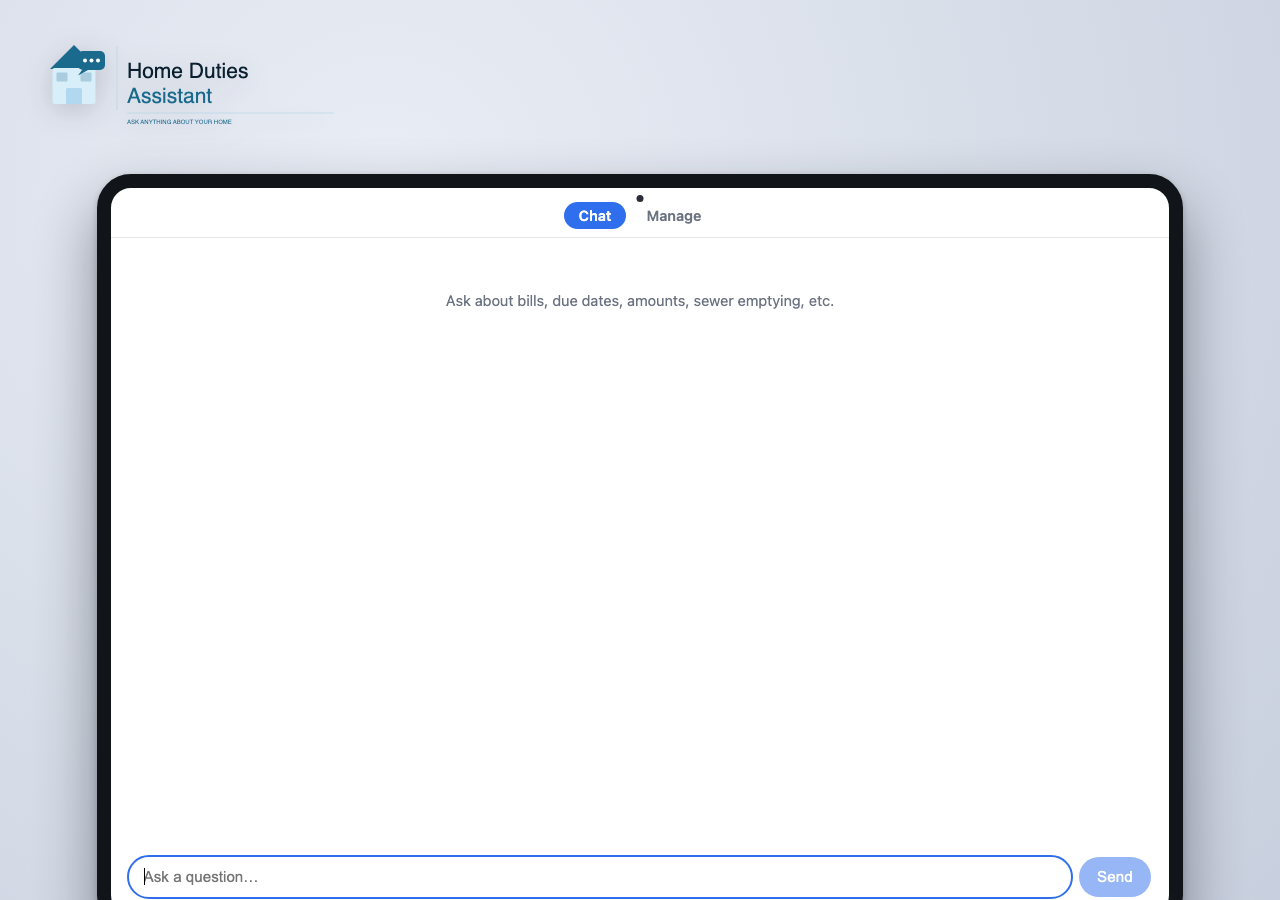
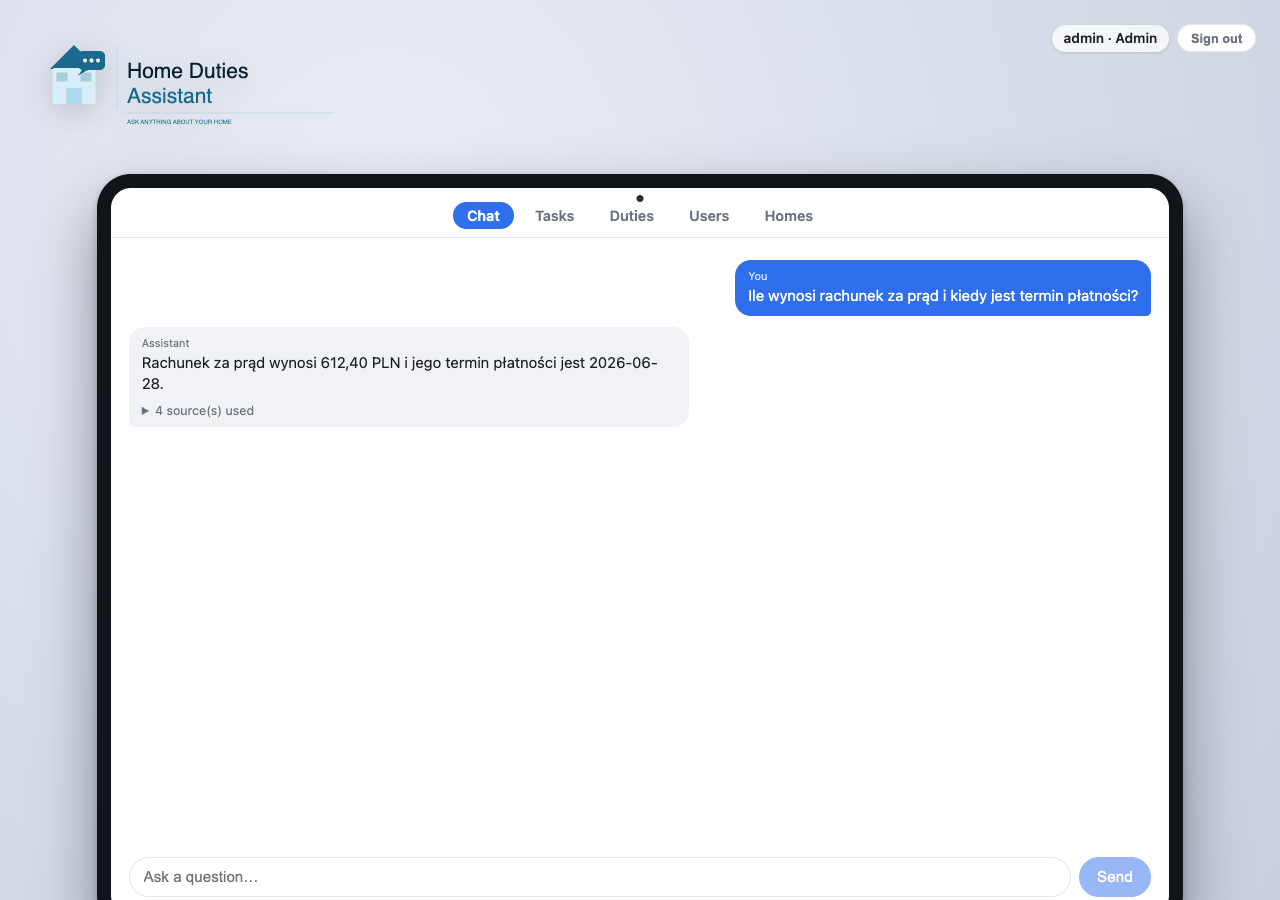
Update README

diff --git a/HomeDutiesAssistant.Core/Templates/EmailLayout.html b/HomeDutiesAssistant.Core/Templates/EmailLayout.html
@@ -1,0 +1,127 @@
+<!DOCTYPE html PUBLIC "-//W3C//DTD XHTML 1.0 Transitional//EN" "http://www.w3.org/TR/xhtml1/DTD/xhtml1-transitional.dtd">
+<html xmlns="http://www.w3.org/1999/xhtml">
+<head>
+  <meta http-equiv="Content-Type" content="text/html; charset=utf-8" />
+  <meta name="viewport" content="width=device-width, initial-scale=1" />
+  <title>{{Title}}</title>
+  <!--[if mso]>
+  <style type="text/css">body,table,td,a{font-family:Arial,Helvetica,sans-serif !important;}</style>
+  <![endif]-->
+  <style type="text/css">
+    /* Progressive enhancement only - every rule that matters is also inlined below. */
+    @media only screen and (max-width: 480px) {
+      .hda-pad { padding-left: 20px !important; padding-right: 20px !important; }
+      .hda-title { font-size: 21px !important; }
+      .hda-btn a { display: block !important; }
+    }
+  </style>
+</head>
+<body style="margin:0; padding:0; background-color:#eef3f6; -webkit-text-size-adjust:100%; -ms-text-size-adjust:100%;">
+
+  <!-- Inbox preview line: shown next to the subject, never in the body. -->
+  <div style="display:none; max-height:0; overflow:hidden; mso-hide:all; font-size:0; line-height:0; color:#eef3f6;">{{Preheader}}&#847;&zwnj;&nbsp;&#847;&zwnj;&nbsp;&#847;&zwnj;&nbsp;&#847;&zwnj;&nbsp;&#847;&zwnj;&nbsp;&#847;&zwnj;&nbsp;&#847;&zwnj;&nbsp;&#847;&zwnj;&nbsp;</div>
+
+  <table role="presentation" cellpadding="0" cellspacing="0" border="0" width="100%" style="background-color:#eef3f6;">
+    <tr>
+      <td align="center" style="padding:28px 12px;">
+
+        <table role="presentation" cellpadding="0" cellspacing="0" border="0" width="600" style="width:600px; max-width:600px; background-color:#ffffff; border:1px solid #dce6ec; border-radius:10px;">
+
+          <!-- ── Header: the logo lockup ───────────────────────────────── -->
+          <tr>
+            <td class="hda-pad" style="padding:28px 32px 22px 32px; border-bottom:1px solid #e6eef3;">
+              <table role="presentation" cellpadding="0" cellspacing="0" border="0">
+                <tr>
+                  <!--[if !mso]><!-- -->
+                  <!-- The mark, drawn in CSS. Outlook's Word engine mishandles
+                       zero-size border triangles, so it gets the wordmark only. -->
+                  <td valign="middle" style="padding-right:14px;">
+                    <table role="presentation" cellpadding="0" cellspacing="0" border="0">
+                      <tr>
+                        <td valign="bottom" style="font-size:0; line-height:0;">
+                          <div style="width:0; height:0; border-left:28px solid transparent; border-right:28px solid transparent; border-bottom:24px solid #1a6a8e; font-size:0; line-height:0;"></div>
+                          <div style="width:48px; height:32px; margin:0 4px; background-color:#d8eef8; border-radius:0 0 3px 3px; font-size:0; line-height:0;">
+                            <div style="height:14px; font-size:0; line-height:0;">&nbsp;</div>
+                            <div style="width:16px; height:18px; margin:0 auto; background-color:#b0d8ee; border-radius:2px 2px 0 0; font-size:0; line-height:0;">&nbsp;</div>
+                          </div>
+                        </td>
+                        <td valign="top" style="padding-left:8px;">
+                          <div style="background-color:#1a6a8e; border-radius:8px; padding:7px 9px; font-size:0; line-height:0;">
+                            <span style="display:inline-block; width:6px; height:6px; border-radius:50%; background-color:#ffffff;"></span>
+                            <span style="display:inline-block; width:6px; height:6px; border-radius:50%; background-color:#ffffff; margin-left:4px;"></span>
+                            <span style="display:inline-block; width:6px; height:6px; border-radius:50%; background-color:#ffffff; margin-left:4px;"></span>
+                          </div>
+                        </td>
+                      </tr>
+                    </table>
+                  </td>
+                  <td width="1" style="width:1px; background-color:#a0cce0; font-size:0; line-height:0;">&nbsp;</td>
+                  <!--<![endif]-->
+                  <td valign="middle" style="padding-left:16px;">
+                    <div style="font-family:-apple-system,'Segoe UI',Roboto,Helvetica,Arial,sans-serif; font-size:22px; font-weight:500; line-height:1.15; color:#0a2030;">Home Duties</div>
+                    <div style="font-family:-apple-system,'Segoe UI',Roboto,Helvetica,Arial,sans-serif; font-size:22px; font-weight:500; line-height:1.15; color:#1a6a8e;">Assistant</div>
+                    <div style="font-family:-apple-system,'Segoe UI',Roboto,Helvetica,Arial,sans-serif; font-size:10px; font-weight:400; line-height:1.4; letter-spacing:0.12em; text-transform:uppercase; color:#1a6a8e; padding-top:7px;">Ask anything about your home</div>
+                  </td>
+                </tr>
+              </table>
+            </td>
+          </tr>
+
+          <!-- ── Body ──────────────────────────────────────────────────── -->
+          <tr>
+            <td class="hda-pad" style="padding:30px 32px 0 32px;">
+              <h1 class="hda-title" style="margin:0 0 14px 0; font-family:-apple-system,'Segoe UI',Roboto,Helvetica,Arial,sans-serif; font-size:24px; font-weight:600; line-height:1.25; color:#0a2030;">{{Title}}</h1>
+              <p style="margin:0; font-family:-apple-system,'Segoe UI',Roboto,Helvetica,Arial,sans-serif; font-size:15px; line-height:1.6; color:#33454f;">{{Intro}}</p>
+            </td>
+          </tr>
+
+          <!--{{#Button}}-->
+          <tr>
+            <td class="hda-pad" align="left" style="padding:26px 32px 0 32px;">
+              <table role="presentation" cellpadding="0" cellspacing="0" border="0" class="hda-btn">
+                <tr>
+                  <td bgcolor="#1a6a8e" style="border-radius:6px;">
+                    <a href="{{ButtonUrl}}" style="display:inline-block; padding:13px 28px; font-family:-apple-system,'Segoe UI',Roboto,Helvetica,Arial,sans-serif; font-size:15px; font-weight:600; line-height:1; color:#ffffff; text-decoration:none; border-radius:6px;">{{ButtonText}}</a>
+                  </td>
+                </tr>
+              </table>
+            </td>
+          </tr>
+          <tr>
+            <td class="hda-pad" style="padding:18px 32px 0 32px;">
+              <p style="margin:0; font-family:-apple-system,'Segoe UI',Roboto,Helvetica,Arial,sans-serif; font-size:12px; line-height:1.55; color:#5b7180;">
+                If the button doesn't work, copy this link into your browser:<br />
+                <a href="{{ButtonUrl}}" style="color:#1a6a8e; text-decoration:underline; word-break:break-all;">{{ButtonUrl}}</a>
+              </p>
+            </td>
+          </tr>
+          <!--{{/Button}}-->
+
+          <!--{{#Outro}}-->
+          <tr>
+            <td class="hda-pad" style="padding:22px 32px 0 32px;">
+              <p style="margin:0; font-family:-apple-system,'Segoe UI',Roboto,Helvetica,Arial,sans-serif; font-size:14px; line-height:1.6; color:#5b7180;">{{Outro}}</p>
+            </td>
+          </tr>
+          <!--{{/Outro}}-->
+
+          <tr><td style="height:30px; font-size:0; line-height:0;">&nbsp;</td></tr>
+
+          <!-- ── Footer ────────────────────────────────────────────────── -->
+          <tr>
+            <td class="hda-pad" style="padding:18px 32px; background-color:#f6fafc; border-top:1px solid #e6eef3; border-radius:0 0 10px 10px;">
+              <p style="margin:0; font-family:-apple-system,'Segoe UI',Roboto,Helvetica,Arial,sans-serif; font-size:12px; line-height:1.6; color:#7b8c98;">
+                Home Duties Assistant &middot; your household, answered.<br />
+                This is an automated message &mdash; replies aren't monitored.
+              </p>
+            </td>
+          </tr>
+
+        </table>
+
+      </td>
+    </tr>
+  </table>
+
+</body>
+</html>

diff --git a/HomeDutiesAssistant.Core/Templates/EmailTemplate.cs b/HomeDutiesAssistant.Core/Templates/EmailTemplate.cs
@@ -1,0 +1,126 @@
+using System.Net;
+using System.Text;
+
+namespace HomeDutiesAssistant.Templates;
+
+/// <summary>
+/// The content of one transactional email, independent of how it is marked up.
+/// Callers describe what they want to say; <see cref="EmailTemplate"/> decides how it looks.
+/// </summary>
+/// <param name="Title">Headline, also used as the document title.</param>
+/// <param name="Intro">The opening paragraph.</param>
+/// <param name="ButtonText">Call-to-action label. Omit (with <paramref name="ButtonUrl"/>) for an email with no action.</param>
+/// <param name="ButtonUrl">Where the call to action goes.</param>
+/// <param name="Outro">Optional closing note, set smaller and muted.</param>
+/// <param name="Preheader">Optional inbox preview line shown beside the subject. Falls back to <paramref name="Intro"/>.</param>
+public sealed record EmailContent(
+    string Title,
+    string Intro,
+    string? ButtonText = null,
+    string? ButtonUrl = null,
+    string? Outro = null,
+    string? Preheader = null);
+
+/// <summary>
+/// Renders <see cref="EmailContent"/> into the branded HTML layout and a plain-text
+/// equivalent. Both come from the same content, so the two parts of a
+/// multipart/alternative message never drift apart.
+/// </summary>
+public static class EmailTemplate
+{
+    private const string LayoutResource = "HomeDutiesAssistant.Templates.EmailLayout.html";
+
+    private static readonly Lazy<string> Layout = new(LoadLayout);
+
+    public static string RenderHtml(EmailContent content)
+    {
+        var hasButton = !string.IsNullOrWhiteSpace(content.ButtonText)
+                        && !string.IsNullOrWhiteSpace(content.ButtonUrl);
+        var hasOutro = !string.IsNullOrWhiteSpace(content.Outro);
+
+        var html = Layout.Value;
+        html = Section(html, "Button", hasButton);
+        html = Section(html, "Outro", hasOutro);
+
+        // Everything substituted here is HTML-encoded: the confirmation link carries
+        // a query string whose '&' would otherwise break the href.
+        html = html.Replace("{{Preheader}}", Encode(content.Preheader ?? content.Intro));
+        html = html.Replace("{{Title}}", Encode(content.Title));
+        html = html.Replace("{{Intro}}", Encode(content.Intro));
+        if (hasButton)
+        {
+            html = html.Replace("{{ButtonText}}", Encode(content.ButtonText));
+            html = html.Replace("{{ButtonUrl}}", Encode(content.ButtonUrl));
+        }
+
+        if (hasOutro)
+        {
+            html = html.Replace("{{Outro}}", Encode(content.Outro));
+        }
+
+        return html;
+    }
+
+    /// <summary>The same message for clients that cannot render HTML.</summary>
+    public static string RenderText(EmailContent content)
+    {
+        var text = new StringBuilder();
+        text.AppendLine(content.Title);
+        text.AppendLine(new string('=', content.Title.Length));
+        text.AppendLine();
+        text.AppendLine(content.Intro);
+
+        if (!string.IsNullOrWhiteSpace(content.ButtonUrl))
+        {
+            text.AppendLine();
+            text.AppendLine(string.IsNullOrWhiteSpace(content.ButtonText)
+                ? content.ButtonUrl
+                : $"{content.ButtonText}: {content.ButtonUrl}");
+        }
+
+        if (!string.IsNullOrWhiteSpace(content.Outro))
+        {
+            text.AppendLine();
+            text.AppendLine(content.Outro);
+        }
+
+        text.AppendLine();
+        text.AppendLine("--");
+        text.AppendLine("Home Duties Assistant - your household, answered.");
+        text.AppendLine("This is an automated message - replies aren't monitored.");
+        return text.ToString();
+    }
+
+    /// <summary>
+    /// Keeps or drops one optional block of the layout, marked in the HTML with
+    /// <c>&lt;!--{{#Name}}--&gt;</c> … <c>&lt;!--{{/Name}}--&gt;</c>.
+    /// </summary>
+    private static string Section(string html, string name, bool keep)
+    {
+        var open = "<!--{{#" + name + "}}-->";
+        var close = "<!--{{/" + name + "}}-->";
+
+        var start = html.IndexOf(open, StringComparison.Ordinal);
+        var end = html.IndexOf(close, StringComparison.Ordinal);
+        if (start < 0 || end < start)
+        {
+            throw new InvalidOperationException($"The email layout has no '{name}' section.");
+        }
+
+        // Remove the later span first so the earlier index stays valid.
+        return keep
+            ? html.Remove(end, close.Length).Remove(start, open.Length)
+            : html.Remove(start, end + close.Length - start);
+    }
+
+    private static string Encode(string? value) => WebUtility.HtmlEncode(value ?? string.Empty);
+
+    private static string LoadLayout()
+    {
+        using var stream = typeof(EmailTemplate).Assembly.GetManifestResourceStream(LayoutResource)
+            ?? throw new InvalidOperationException(
+                $"Embedded resource '{LayoutResource}' was not found. Is Templates/EmailLayout.html still marked <EmbeddedResource>?");
+        using var reader = new StreamReader(stream, Encoding.UTF8);
+        return reader.ReadToEnd();
+    }
+}

diff --git a/README.md b/README.md
@@ -26,11 +26,16 @@ data/*.yaml ──▶ DataLoader ──▶ embed ──▶ PostgreSQL + pgvector
                                       │
                                       ▼
                           Ollama LLM ──▶ streamed answer
+
+bill.pdf ──▶ PdfPig (text layer) ──▶ Phi-4-mini (ONNX Runtime) ──▶ JSON ──▶ pre-filled Duty
+                                                                               │
+                                                  review & save on /duties ──▶ embed ──▶ pgvector
 ```
 
 1. **Ingest** — every `*.yaml` under `data/` becomes a `Duty`. Each duty is rendered to one canonical sentence that is *both* embedded and later shown to the model, then upserted into Postgres.
 2. **Retrieve** — your question is embedded and matched against stored facts using **hybrid search** (lexical + vector, fused with Reciprocal Rank Fusion).
 3. **Answer** — the top-K facts are pinned into a system prompt and the local LLM streams an answer grounded *only* in those facts.
+4. **Extract (optional, web only)** — a PDF bill uploaded on `/duties` is turned into text with **PdfPig** (text layer only, no OCR). A local **Phi-4-mini-instruct** model running in-process on **ONNX Runtime GenAI** (CPU, int4) reads that text and returns JSON — category, title, provider, total amount, ISO currency, due date, frequency, notes — which pre-fills a new duty for you to review. Saving embeds it like any other fact. Generation is greedy (temperature 0), the model is loaded once as a singleton, and requests are serialized. Without the model configured, the raw text lands in Notes instead. See [Importing bills from PDF](#importing-bills-from-pdf-optional).
 
 ## Prerequisites
 
@@ -41,6 +46,14 @@ data/*.yaml ──▶ DataLoader ──▶ embed ──▶ PostgreSQL + pgvector
   ollama pull <your-chat-model>
   ollama pull <your-embedding-model>
   ```
+- **Phi-4-mini-instruct ONNX weights** *(optional — only for PDF bill extraction)*, ~4.6 GB, fetched once from Hugging Face into the git-ignored `models/` folder:
+  ```bash
+  pip install huggingface_hub
+  hf download microsoft/Phi-4-mini-instruct-onnx \
+      --include "cpu_and_mobile/cpu-int4-rtn-block-32-acc-level-4/*" \
+      --local-dir models/phi4
+  ```
+  Skip this and PDF import still works, just without auto-filled fields — see [Importing bills from PDF](#importing-bills-from-pdf-optional).
 
 ## Quick start
 
@@ -140,6 +153,25 @@ docker compose up -d --build   # rebuild & restart after code or data changes
 
 > First load can take a few seconds while the boot job embeds the YAML.
 
+### Before a production deployment: lock down published ports
+
+The default `docker-compose.yml` is tuned for development: it publishes **PostgreSQL (`5432`)** and the **Seq UI (`8082`)** on *all* host interfaces, so anyone who can reach the machine can hit the database and the logs directly. Docker's port publishing also bypasses host firewalls such as `ufw`, so a firewall rule alone won't save you. On any machine reachable from outside your trusted network, only Caddy (`80`/`443`) should be public.
+
+Before deploying, create a `docker-compose.override.yml` next to `docker-compose.yml`. Compose picks it up automatically on every `docker compose` command:
+
+```yaml
+# docker-compose.override.yml — production: only Caddy is publicly reachable.
+services:
+  pgvector:
+    ports: !override
+      - "127.0.0.1:5432:5432"   # host-local only (for backups/psql); use !reset [] to drop entirely
+  seq:
+    ports: !override
+      - "127.0.0.1:8082:80"     # reach the UI via an SSH tunnel: ssh -L 8082:localhost:8082 <server>
+```
+
+`!override` replaces the base file's port list instead of merging with it (a plain `ports:` would *add* to the published ports). It needs Docker Compose ≥ 2.24.4. The web container needs no change: it's only `expose`d, and Postgres and Seq stay reachable from the web container over the compose network either way. Check the result with `docker compose config` and `docker compose ps`: only `80`/`443` should be bound to `0.0.0.0`.
+
 ## Adding your own duties
 
 Edit (or add) a YAML file under `HomeDutiesAssistant/data/`. Each entry is a sparse record — only `category` and `title` are required:
@@ -176,7 +208,7 @@ hf download microsoft/Phi-4-mini-instruct-onnx \
     --local-dir models/phi4
 ```
 
-That lands the model at `models/phi4/cpu_and_mobile/cpu-int4-rtn-block-32-acc-level-4/` (the repo-local `models/` folder is git-ignored) — the default location both front-ends look for:
+That lands the model at `models/phi4/cpu_and_mobile/cpu-int4-rtn-block-32-acc-level-4/` (the repo-local `models/` folder is git-ignored) — the default location the web app looks for (PDF import is web-only; the console doesn't use the model):
 
 - **Docker:** `docker-compose.yml` bind-mounts that directory read-only into the web container at `/models/phi4` and sets `Onnx__ModelPath` to it. Point `ONNX_MODEL_DIR` in `.env` at a different host path if you keep the weights elsewhere.
 - **Local dev:** `appsettings.Development.json` sets `Onnx:ModelPath` to the same repo-local path.
@@ -197,6 +229,8 @@ Settings live in `appsettings.json` (one per front-end — keep the `Ollama` / `
 | `Rag`      | `EmbeddingDimensions` | Vector size — must match the embedding model and the DB column |
 | `Rag`      | `LexicalWeight`       | Weight of the lexical signal in fusion                         |
 | `Rag`      | `VectorWeight`        | Weight of the vector signal in fusion                          |
+| `Onnx`     | `ModelPath`           | Phi-4 ONNX model dir (web only; relative paths resolve from the solution root). Omit the section to disable extraction |
+| `Onnx`     | `MaxLength`           | Max tokens (prompt + output) per extraction                    |
 
 Swapping the embedding model? Update `EmbeddingModel`, set `EmbeddingDimensions` to match it, adjust the embedding task prefixes if your model needs them, and recreate the `duties` table if the dimensions change.
 
@@ -231,4 +265,4 @@ There are no tests and no linter configured in this repo.
 
 ## Tech stack
 
-.NET 10 · PostgreSQL 17 + [pgvector](https://github.com/pgvector/pgvector) · [Ollama](https://ollama.com/) · Blazor Server · [Quartz.NET](https://www.quartz-scheduler.net/) · [Spectre.Console](https://spectreconsole.net/) · [YamlDotNet](https://github.com/aaubry/YamlDotNet)
+.NET 10 · PostgreSQL 17 + [pgvector](https://github.com/pgvector/pgvector) · [Ollama](https://ollama.com/) · Blazor Server · [Quartz.NET](https://www.quartz-scheduler.net/) · [Spectre.Console](https://spectreconsole.net/) · [YamlDotNet](https://github.com/aaubry/YamlDotNet) · [ONNX Runtime GenAI](https://github.com/microsoft/onnxruntime-genai) · [PdfPig](https://github.com/UglyToad/PdfPig)
